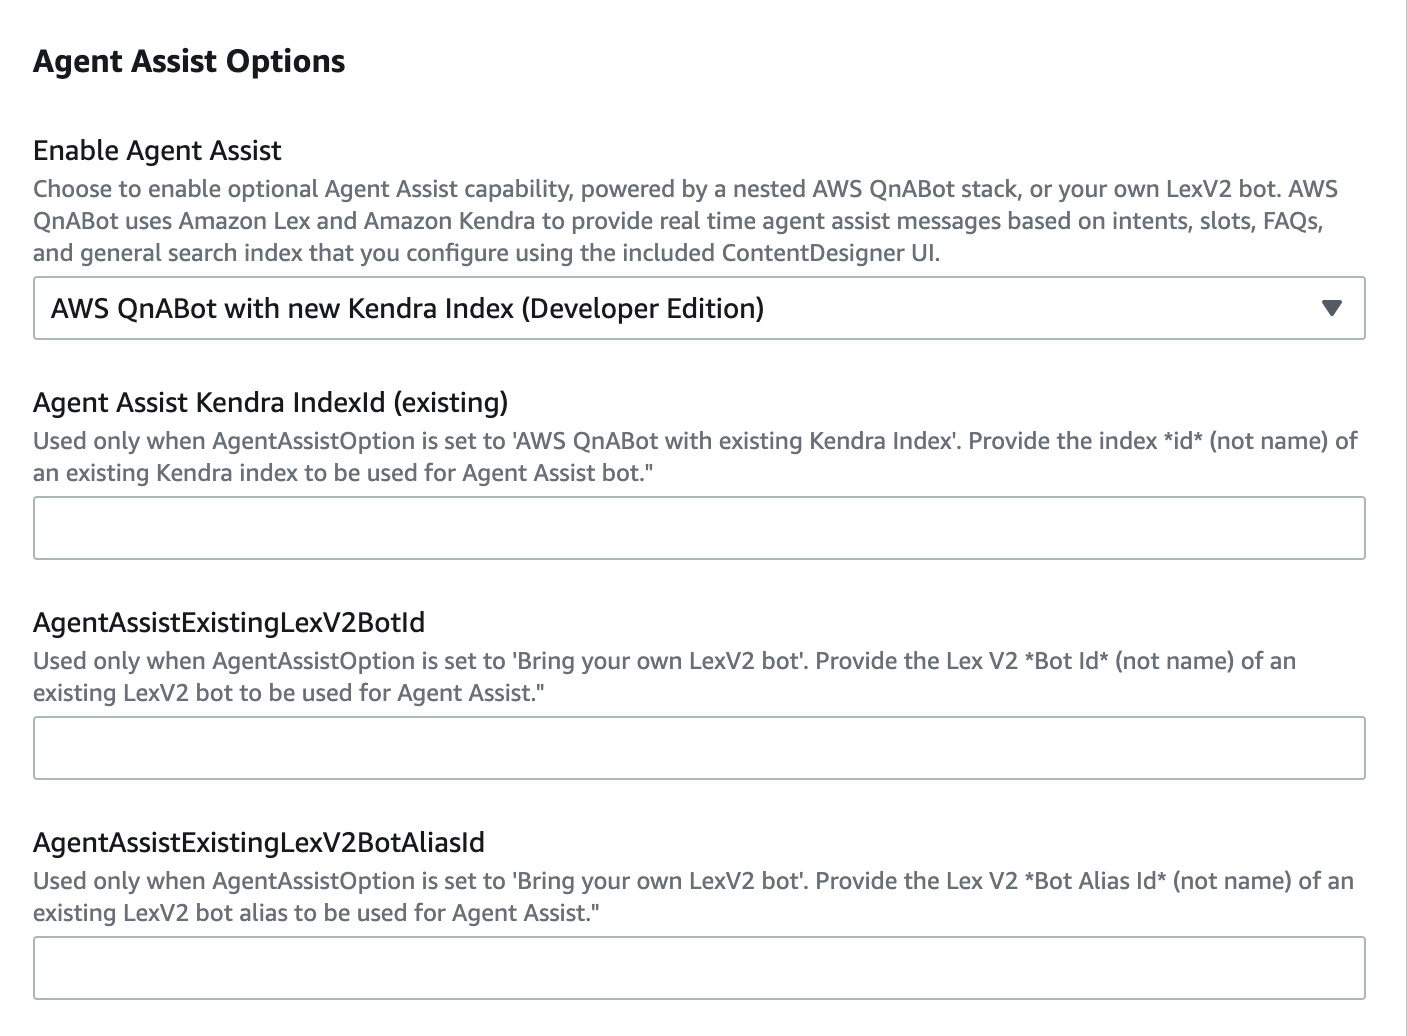
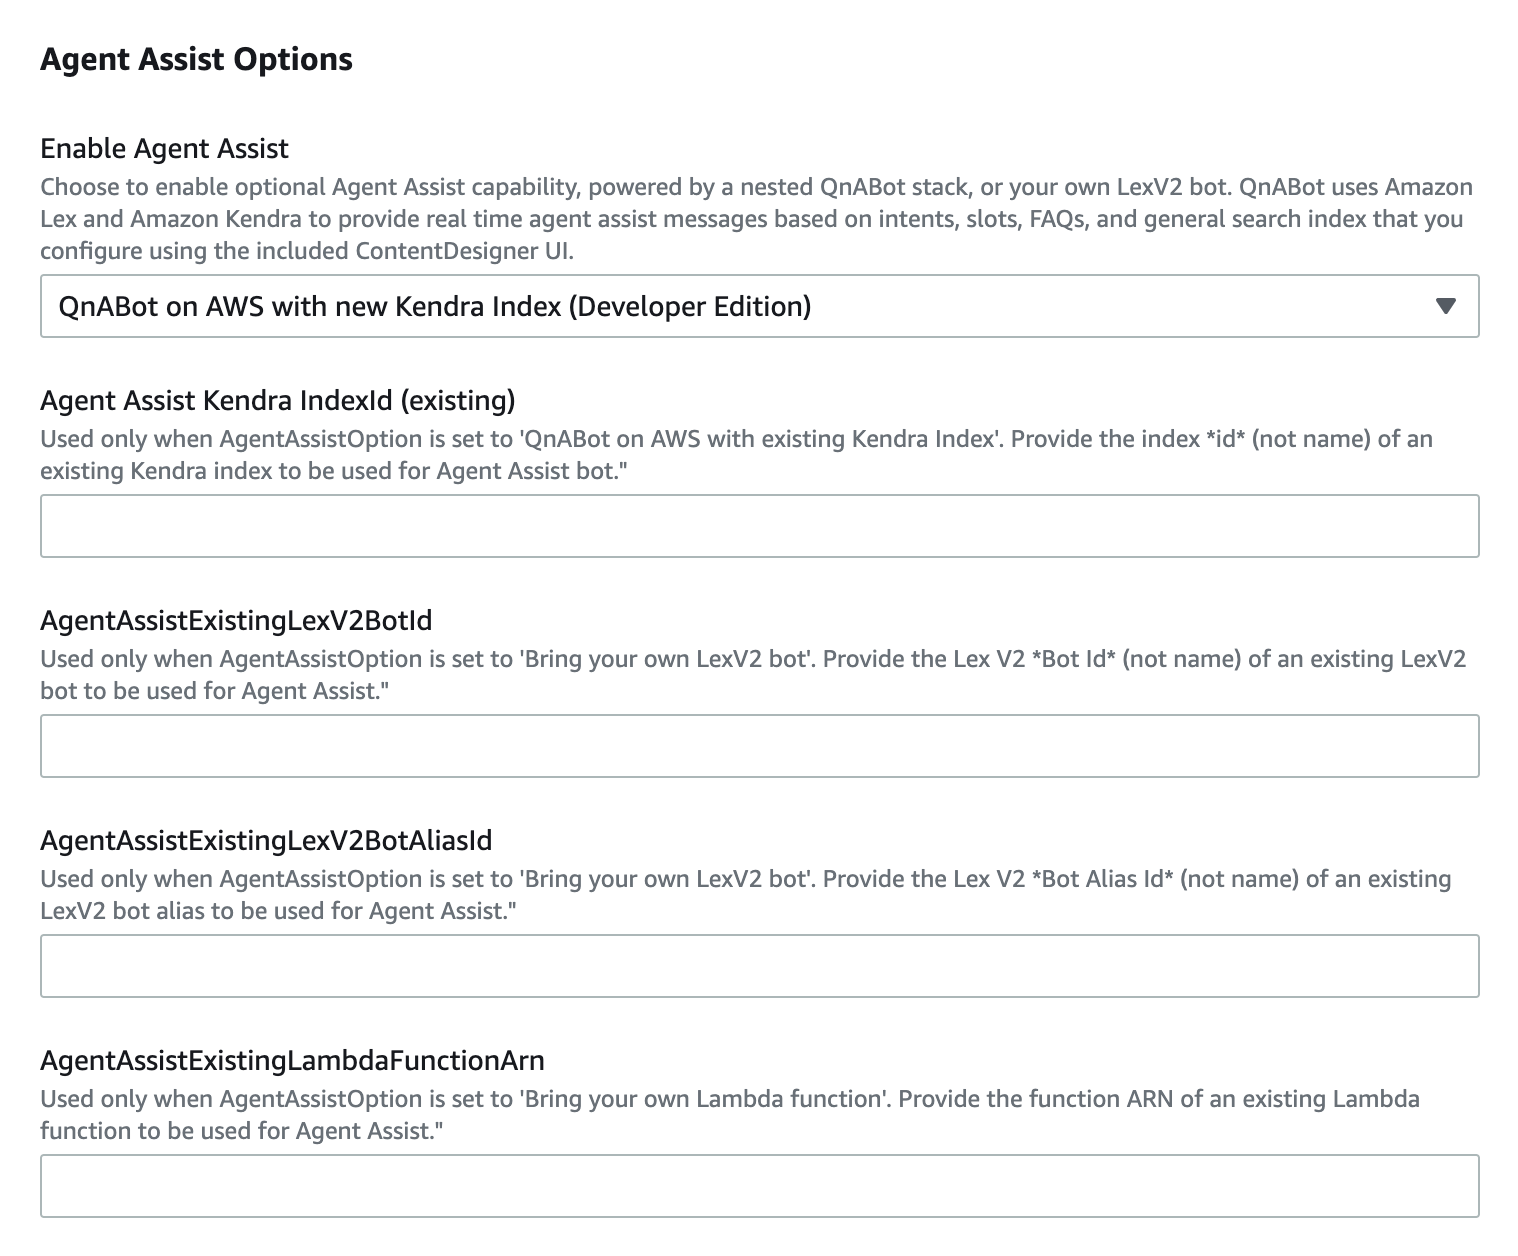
Update architecture diagrams - remove old ones and add new ones for each audio source, and also update Agent Assist readme to reflect solution name change and add bring your own Lambda feature.

diff --git a/lca-agentassist-setup-stack/README.md b/lca-agentassist-setup-stack/README.md
@@ -28,7 +28,7 @@ Agent Assist works by sending the phrases spoken (utterance) by the caller to an
 
 Now let’s examine at an example of a multi-turn Agent Assist scenario.  If a caller says “I’m calling about my card”, but does not specify the type of card, Amazon Lex can identify what the intent is (which is calling about a card), but it still needs more information (the slot value, which is the type of card). In this case, the Agent Assist suggested response would be “What type of card are you interested in? A rewards card or purchase card?”. The caller then can reply with “rewards card”, which will “fulfill” the intent. This means all the required slots have been collected.
 
-Agent Assist uses the AWS QnABot solution to handle the architecture deployment and configuration of Amazon Lex and Amazon Kendra.  To learn more about AWS QnABot, see here: https://aws.amazon.com/solutions/implementations/aws-qnabot/
+Agent Assist uses the QnABot on AWS solution to handle the architecture deployment and configuration of Amazon Lex and Amazon Kendra.  To learn more about QnABot on AWS, see here: https://aws.amazon.com/solutions/implementations/aws-qnabot/
 
 ![Agent Assist Architecture](../images/lca-chimevc-architecture.png)
 ## How to enable Agent Assist in Live Call Analytics
@@ -43,11 +43,12 @@ The main parameter to enable Agent Assist is the “**Enable Agent Assist**” p
 |---	|---	|
 |Disabled	|Selecting this value will disable Agent Assist	|
 |Bring your own LexV2 Bot	|Select this value if you already have a pre-configured LexV2 bot. You must provide LCA with the existing Lex Bot ID and Bot Alias in the **AgentAssistExistingLexV2BotId** and **AgentAssistExistingLexV2BotAliasId,** and an existing Kendra index in the **AgentAssistKendraIndexId** CloudFormation parameters.	|
-|AWS QnABot with existing Kendra Index	|This deploys a new AWS QnABot with an existing Kendra Index. If you select this value, you are required to provide LCA with an existing Kendra index in the **AgentAssistKendraIndexId** CloudFormation parameters.	|
-|AWS QnABot with new Kendra Index (Developer Edition)	|This deploys a new AWS QnABot with a new Amazon Kendra  Developer Edition Index	|
-|AWS QnABot with new Kendra Index (Enterprise Edition)	|This deploys a new AWS QnABot with a new Amazon Kendra Enterprise Edition Index	|
+|QnABot on AWS with existing Kendra Index	|This deploys a new QnABot on AWS with an existing Kendra Index. If you select this value, you are required to provide LCA with an existing Kendra index in the **AgentAssistKendraIndexId** CloudFormation parameters.	|
+|QnABot on AWS with new Kendra Index (Developer Edition)	|This deploys a new QnABot on AWS with a new Amazon Kendra  Developer Edition Index	|
+|QnABot on AWS with new Kendra Index (Enterprise Edition)	|This deploys a new QnABot on AWS with a new Amazon Kendra Enterprise Edition Index	|
+|Bring your own Lambda function	|This will send the customer's speech to a Lambda function. This will allow you to build your own custom Agent Assist integrations, for example, look up responses in a 3rd party knowledge base or API.	|
 
-All the values with “AWS QnABot” will deploy a new AWS QnABot into your account, pre-configured with example Agent Assist suggested responses. 
+All the values with “QnABot on AWS” will deploy a new QnABot on AWS into your account, pre-configured with example Agent Assist suggested responses. 
 
 Once you have filled out the Agent Assist CloudFormation parameters, finish deploying or updating the LCA stack.  
 
@@ -92,7 +93,7 @@ Agent Assist responses can be categorized into 5 types:
 |Dynamic - Context aware response	|This is a response that requires more information (slots) before it can provide an appropriate suggested answer.  Agent Assist may ask for the values of the slots before providing the final suggested response. Responses can be dynamic and formatted with [handlebars](https://catalog.us-east-1.prod.workshops.aws/workshops/20c56f9e-9c0a-4174-a661-9f40d9f063ac/en-US/qna/handlebars).	|
 |Dynamic - knowledge base query response	|This will look up a response from Amazon Kendra with a specified Query. Queries can be simple static text or dynamic text with handlebars. Queries also support Amazon Kendra Query Arguments, such as AttributeFilters. 	|
 |Dynamic - custom business logic response	|This will call an AWS Lambda function, along with the entire context, so that you can write custom business logic in the function, such as look up information in a 3rd party database or API.	|
-|Amazon Kendra fallback response	|If no response from the above is found, the caller's utterance is directly sent to Amazon Kendra. If the Amazon Kendra confidence score returns `HIGH` or `VERY_HIGH`, the response is sent to the agent. The confidence score threshold can be configured in the AWS QnABot settings.	|
+|Amazon Kendra fallback response	|If no response from the above is found, the caller's utterance is directly sent to Amazon Kendra. If the Amazon Kendra confidence score returns `HIGH` or `VERY_HIGH`, the response is sent to the agent. The confidence score threshold can be configured in the QnABot on AWS settings.	|
 
 The first four types, static and dynamic responses, are synced to Amazon Kendra FAQs. This provides a semantic aware search for any of the utterances and responses in these items.  
 
@@ -163,11 +164,11 @@ The last parameter, Kendra Query Arguments, allows for more fine grained search 
 
 ### Dynamic, Custom Business Logic
 
-Custom business logic is accomplished by writing a custom AWS Lambda Function. This provides the capability for looking up information from almost any 3rd party data source, or building other custom integrations. For an example of calling an AWS Lambda function from an Agent Assist response, see the [AWS QnABot Lambda Hooks README](https://github.com/aws-solutions/aws-qnabot/tree/main/docs/lambda_hooks). 
+Custom business logic is accomplished by writing a custom AWS Lambda Function. This provides the capability for looking up information from almost any 3rd party data source, or building other custom integrations. For an example of calling an AWS Lambda function from an Agent Assist response, see the [QnABot on AWS Lambda Hooks README](https://github.com/aws-solutions/aws-qnabot/tree/main/docs/lambda_hooks). 
 
 ### Amazon Kendra Fallback Response
 
-If all else fails, and there are no matching Agent Assist responses found, the user’s utterance will be sent to Amazon Kendra. The Amazon Kendra confidence threshold for Kendra Fallback responses can be configured in the AWS QnABot settings, under the setting name `ALT_SEARCH_KENDRA_FALLBACK_CONFIDENCE_SCORE.`
+If all else fails, and there are no matching Agent Assist responses found, the user’s utterance will be sent to Amazon Kendra. The Amazon Kendra confidence threshold for Kendra Fallback responses can be configured in the QnABot on AWS settings, under the setting name `ALT_SEARCH_KENDRA_FALLBACK_CONFIDENCE_SCORE.`
 
 
 ### Rebuild Lex & Kendra
@@ -179,3 +180,18 @@ Once all the Agent Assist responses have been defined, the last step is to rebui
 After rebuilding Lex, also resync Kendra FAQs, which will sync all the items to Kendra.
 
 ![Sync Kendra FAQ](../images/lca-agentassist-qnabot-syncfaq.png)
+
+
+## Bring your own Lambda function
+
+If you would like to bypass Lex entirely, select the `Bring your own Lambda function` option in the Enable Agent Assist. You must also put a Lambda ARN of the function that will be invoked. When invoked, LCA will  send the customer's utterance in the event object.  
+
+LCA will expect a JSON response from the Lambda function, with one key named `message` and the value containing the Agent Assist response message.
+
+Example:
+
+``
+        {
+          "message": "This is the Agent Assist suggested response message."
+        }
+``
